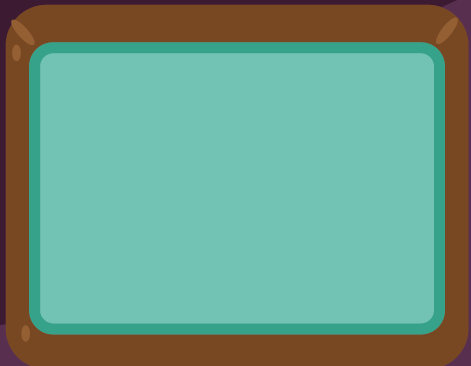
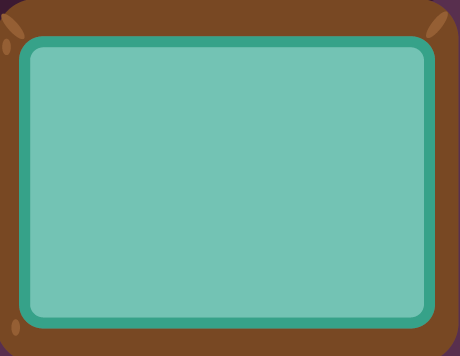
navigation buttons added in html and css, need to add js-function

Changed region(s): [[0.0, 0.0, 1.0, 1.0], [0.9435, 0.927, 1.0, 1.0]]

diff --git a/dist/theme/custom.css b/dist/theme/custom.css
@@ -116,6 +116,46 @@ body {
         border-radius: 5px;
     }
 
+
+/*navigation buttons: */
+.nav-arrow {
+    position: fixed;
+    top: 10px;
+    width: 45px;
+    height: 40px;
+    background-image: url('../../Math-Project/next-prev-arrows.png');
+    background-size: 150px 80px;
+    background-repeat: no-repeat;
+    font-family: 'Noto Sans Hebrew', Arial;
+    font-size: 40px;
+    color: #fff;
+    font-weight: bold;
+    background-color: rgba(255, 255, 255, 0.15);
+    padding: 12px 18px;
+    border-radius: 30%;
+    border: 3px dotted #FFCBDB; /* soft lavender-violet tone */
+    margin-right: 10px;
+    cursor: pointer;
+    z-index: 9999;
+    box-shadow: 0 0 12px 4px rgba(192, 132, 214, 0.4); /*glow */
+    transition: all 0.3s ease;
+}
+    .nav-arrow:hover {
+        background-color: #402c73;
+        background-color: rgba(255, 255, 255, 0.25);
+        transform: scale(1.05);
+    }
+
+    .next-arrow {
+    left: 130px;
+    background-position: right center; /*shows left of the image*/
+    }
+
+    .prev-arrow {
+    left: 20px;
+    background-position: left center; /* shows right half of the image */
+}
+
 .continue-button {
     border-radius: 10px;
     color: white !important;
@@ -133,12 +173,12 @@ body {
     background-color: transparent;
 
 }
-    .continue-button:hover {
-        border: 5px solid white !important;
-        backdrop-filter: blur(10px);
-        background-color: rgba(253, 186, 47, 0.6);
-        color: white !important;
-    }
+       .continue-button:hover {
+          border: 5px solid white !important;
+          backdrop-filter: blur(10px);
+          background-color: rgba(253, 186, 47, 0.6);
+          color: white !important;
+       }
 
 
 .delayed-p {
@@ -163,9 +203,9 @@ body {
     color: white;
     transition: all 0.3s ease;
 }
-.answer:hover {
-    transform: scale(1.20);
-}
+        .answer:hover {
+        transform: scale(1.20);
+         }  
 
 .feedback-centering {
     display: flex;
@@ -194,6 +234,7 @@ body {
     color: white;
 }
 
+/*Press to continue button: */
 .composition-next {
     display: flex;
     flex-direction: column;
@@ -206,23 +247,23 @@ body {
     font-size: 60px;
     gap: 30px;
 }
- .composition-next a {
-        color: white;
-        font-size: 35px;
-        text-decoration: underline;
-        cursor: pointer;
-        border: 2px solid white;
-        padding: 10px 10px 10px 10px;
-        border-radius:10px;
-}
- .composition-next a:hover {
-        background-color: whitesmoke;
-        color: mediumorchid !important;
-        box-shadow: 0 0 20px rgba(255, 255, 255, 0.8),
+        .composition-next a {
+             color: white;
+             font-size: 35px;
+             text-decoration: underline;
+             cursor: pointer;
+             border: 2px solid white;
+             padding: 10px 10px 10px 10px;
+             border-radius:10px;
+        }
+        .composition-next a:hover {
+             background-color: whitesmoke;
+             color: mediumorchid !important;
+             box-shadow: 0 0 20px rgba(255, 255, 255, 0.8),
                     0 0 30px rgba(255, 255, 255, 0.6),
                     0 0 40px rgba(255, 255, 255, 0.4);
-        transform: scale(1.03);
-    }
+             transform: scale(1.03);
+        }
 
 #num-house-slide {
     position:relative;

diff --git a/index.html b/index.html
@@ -22,7 +22,7 @@
 
 </head>
 <body dir="rtl" style="text-align:right;">
-	<img class="Background-theme" src="Math-Project/bg-theme.png" />
+	<img class="Background-theme" src="Math-Project/main-theme.png" />
 	<div class="reveal">
 		<div class="slides">
 			<!-- Slide 1 index=0-->
@@ -49,7 +49,7 @@
 				<div>
 					<!-- linked to slide2: index=1-->
 					<a onclick="playTapAndGo(1)" id="delayed-fragment" class="continue-button delayed-p"
-							    style=" display: flex; margin-top: 230px; margin-right: 400px; width: 400px; justify-content: center; text-align: center; cursor: pointer;">
+					   style=" display: flex; margin-top: 230px; margin-right: 400px; width: 400px; justify-content: center; text-align: center; cursor: pointer;">
 						לחץ כּאן כּדי להמשיך
 					</a>
 				</div>
@@ -240,7 +240,6 @@
 						<div id="square-frame-3" class="circle-draw" data-delay="17000" style="position: absolute; top: -39.5%; left: -189.5%;
 							 border: 5px solid #f5cccc; box-shadow: 0 0 20px 8px rgba(245, 204, 204, 0.7); "> </div>
 					</div>
-
 				</div>
 			</section>
 
@@ -296,7 +295,7 @@
 
 			//Read custom delay from data-delaty attribute
 			const delay = parseInt(box.getAttribute('data-delay')) ||100;
-			
+
 			 setTimeout(() => {
                 box.style.animation = 'drawboxframe 1s ease-out forwards';
             }, delay);
@@ -338,9 +337,13 @@
                 Reveal.slide(slideIndex);
             }, 300);
         }
- 
+
 	</script>
 
+
+	<!-- Navigation Buttons (global) -->
+	<a onclick="goPrev()" class="nav-arrow prev-arrow"></a>
+	<a onclick="goNext()" class="nav-arrow next-arrow"></a>
 
 	<!-- Audio elements -->
 	<audio id="tap-sound" src="Math-Project/audio/POP-(clicking).wav"></audio>
